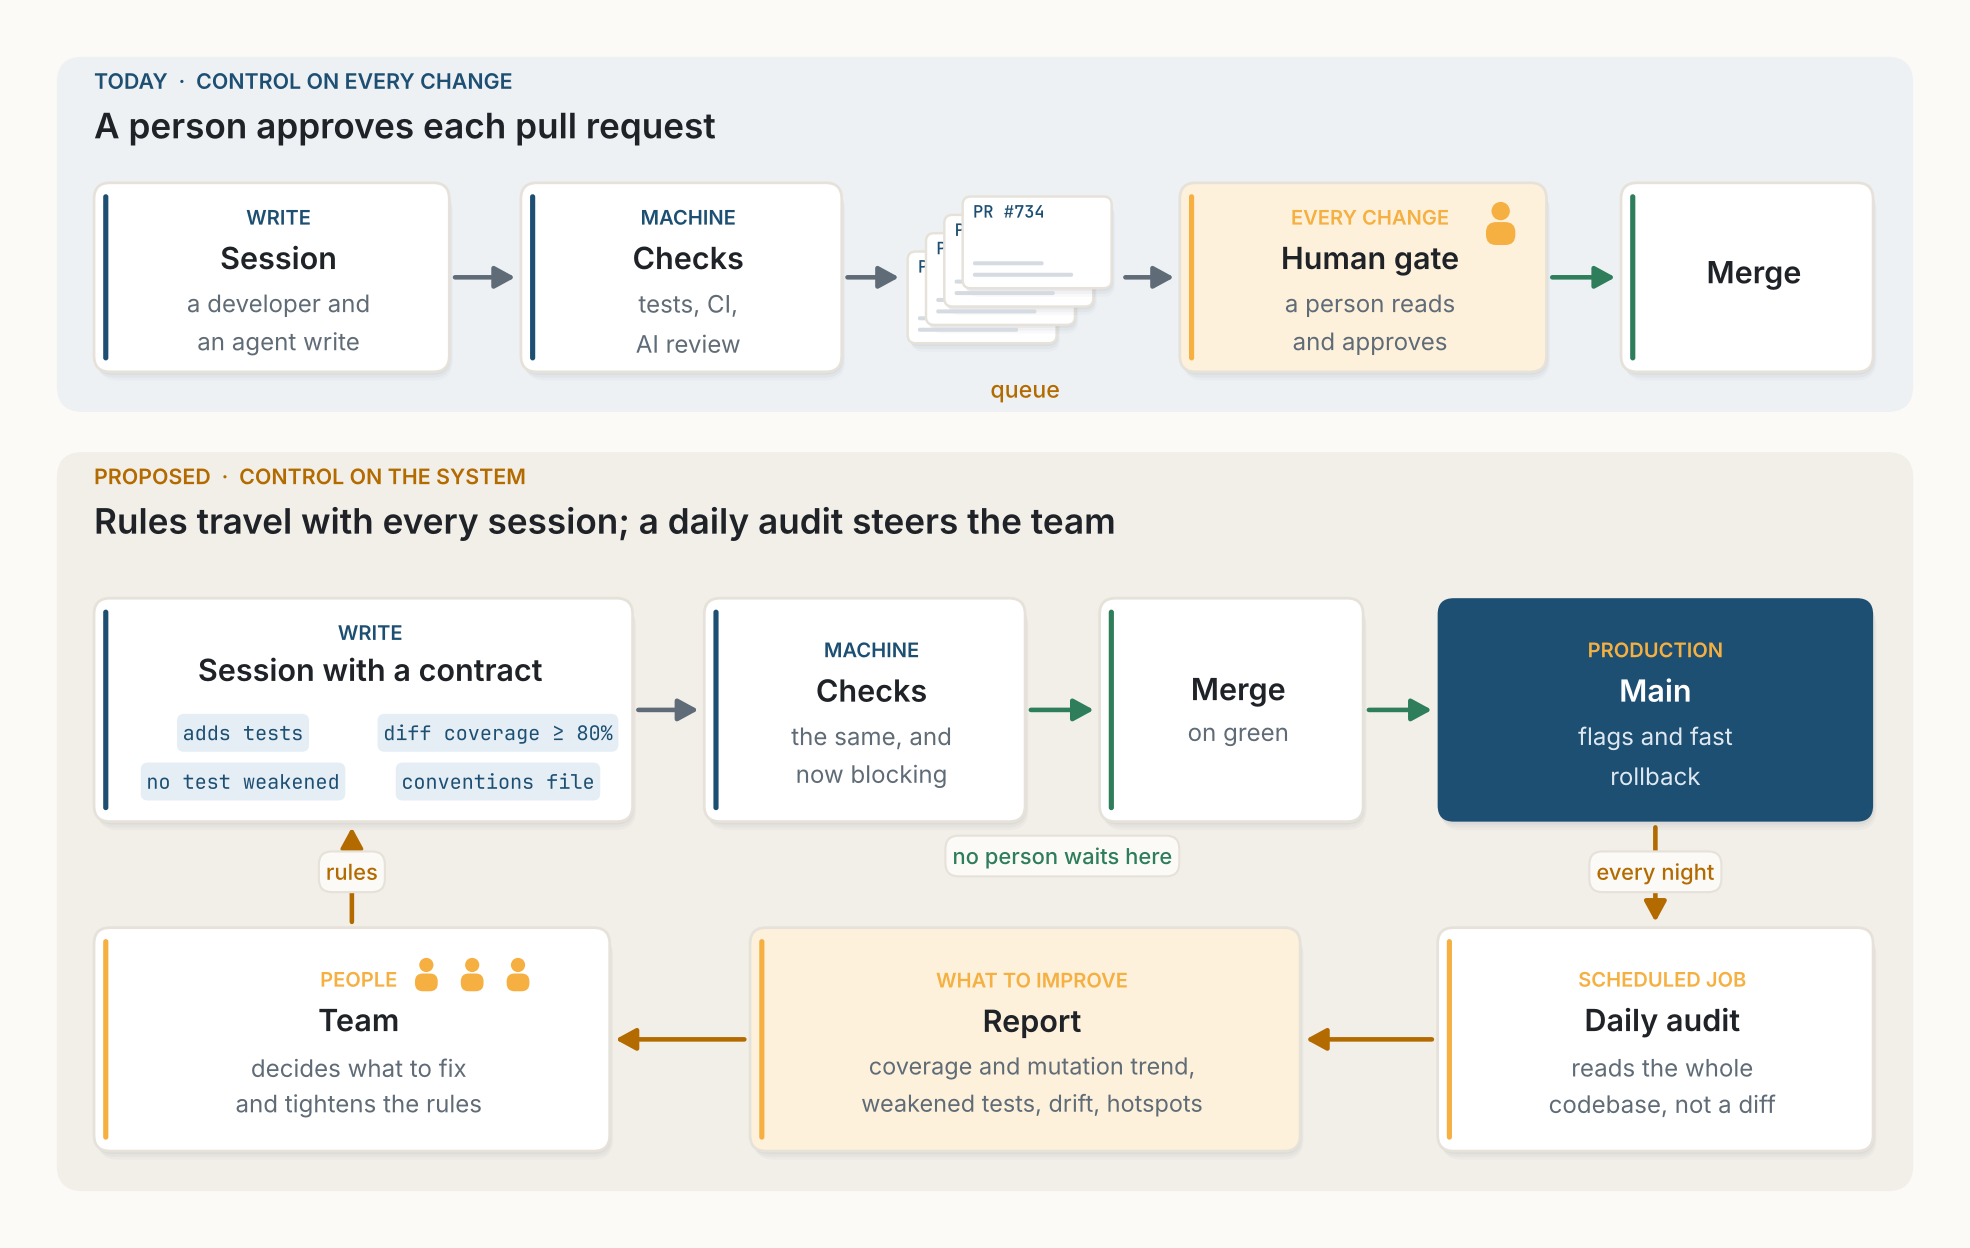
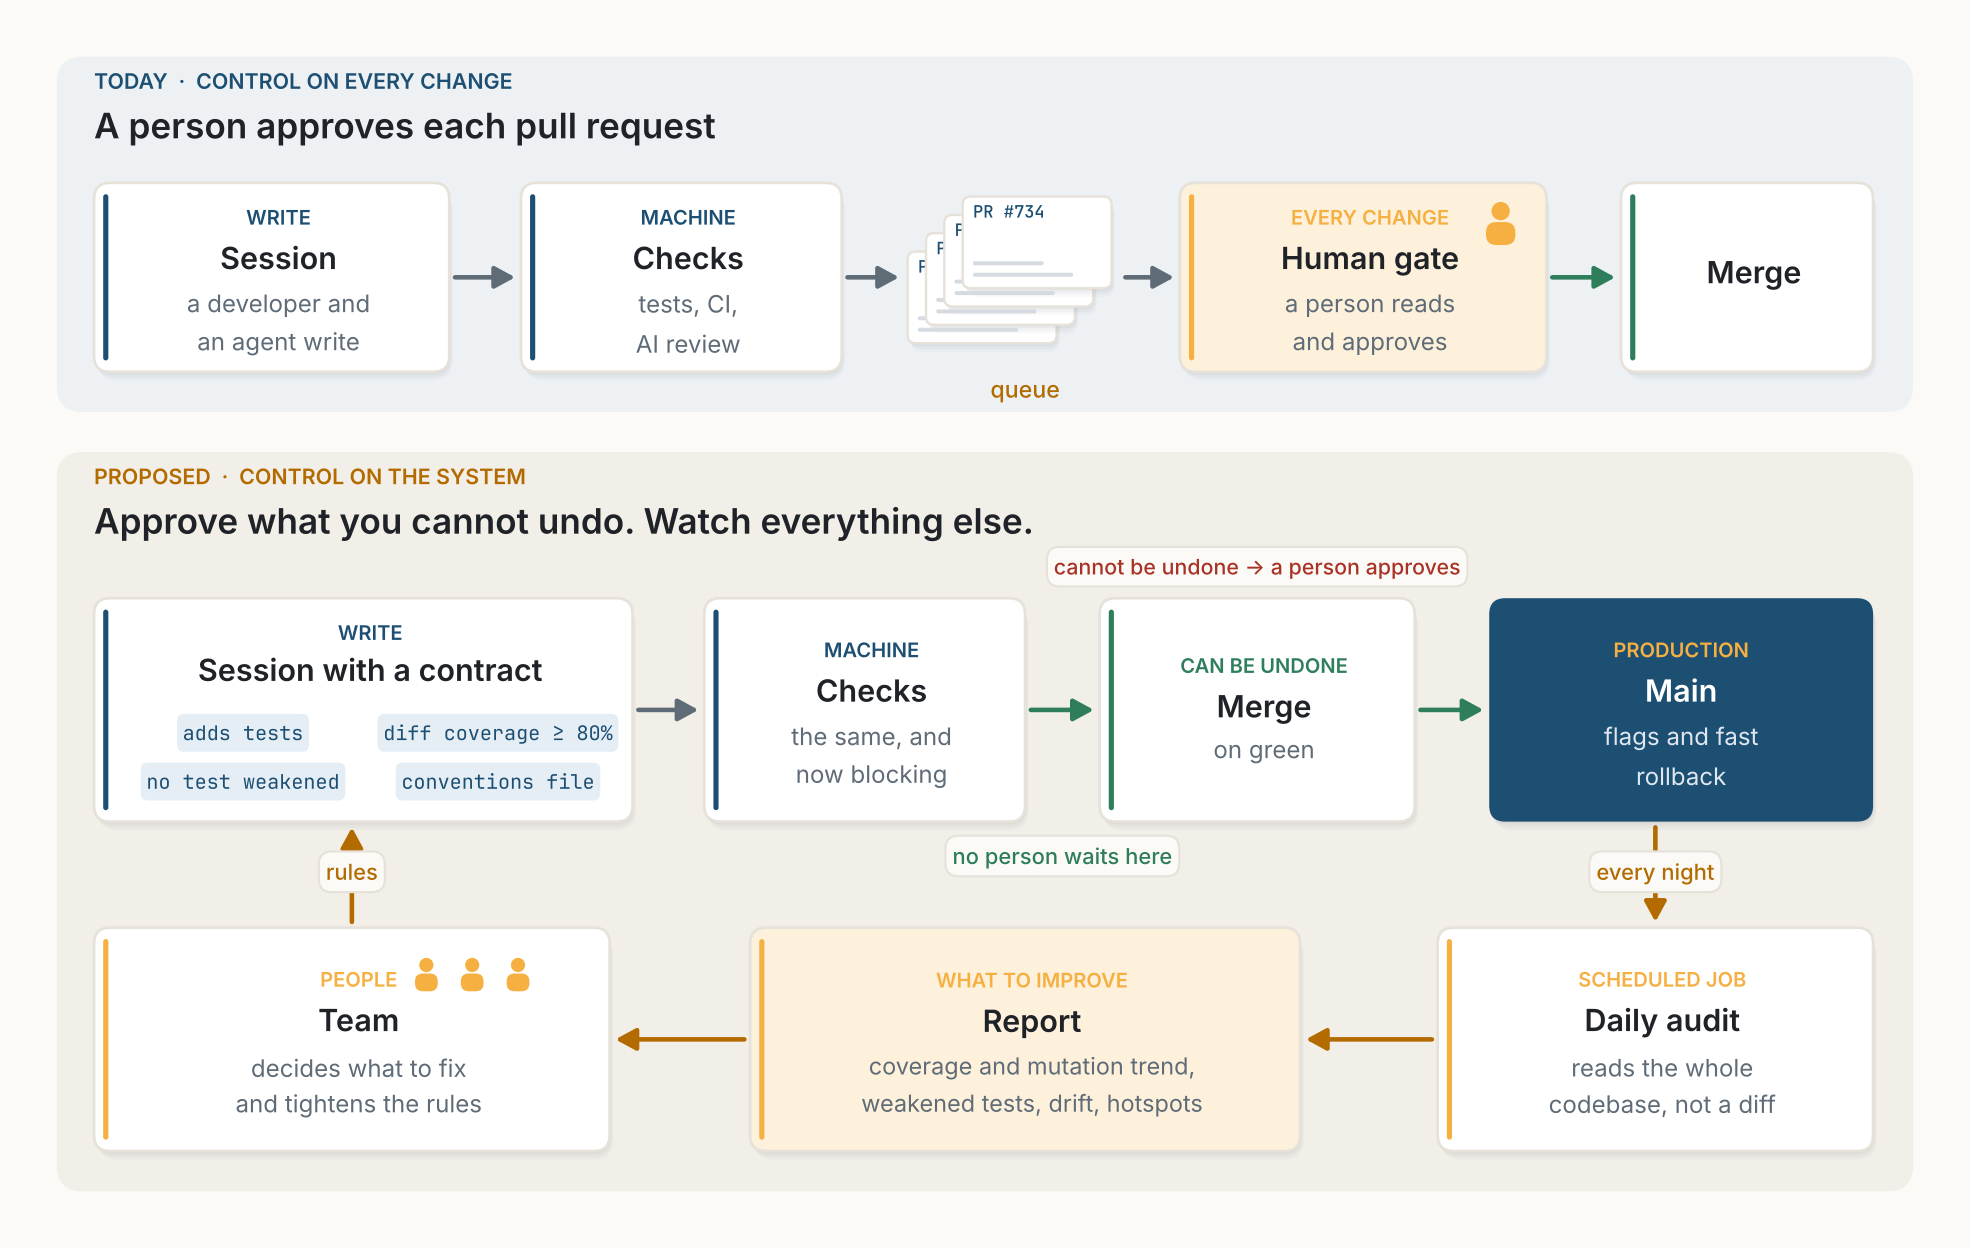
Stop Reviewing Pull Requests: one rule, less repetition
- Centre the paper on a rule the cost model derives: approve what you
  cannot undo, watch everything else. Prompt injection and compliance now
  fall under the same rule instead of being separate exceptions.
- Add the audit's reach: a share c of defects visible to the audit. New
  break-even c > d (1 + h_users / h_audit), Figure 5 redrawn as a map of
  speed against reach, with simulation checks matching the formula.
- State the gate's price as one number: about 10 engineer-hours per day
  of latent defects prevented.
- Figure 1 shows the one-way-door path; prediction H2 measures reach.
- Remove repeated phrases and trim to about 3,800 words including tables.

Claude-Session: https://claude.ai/code/session_01VmH6zrUCB8p6wREbjYJvmS

Changed region(s): [[0.031, 0.4062, 0.7741, 0.6562], [0.8051, 0.5, 0.898, 0.625]]

diff --git a/posts/2026-10-23-stop-reviewing-pull-requests/figs.py b/posts/2026-10-23-stop-reviewing-pull-requests/figs.py
@@ -183,7 +183,7 @@ def fig_gate_to_loop():
     ax.add_patch(FancyBboxPatch((0.3, 0.3), 32.4, 12.9, boxstyle="round,pad=0,rounding_size=0.45",
                                 fc=SAND_T, ec="none", zorder=0.5))
     heading(ax, 0.95, 12.55, "PROPOSED  ·  control on the system",
-            "Rules travel with every session; a daily audit steers the team", color=WARM)
+            "Approve what you cannot undo. Watch everything else.", color=WARM)
     y = 6.75
     card(ax, 0.95, y, 9.4, 3.9, None, None, accent=NAVY, fs=10)
     ax.text(5.77, y + 3.3, "WRITE", fontsize=6.6, weight="semibold", color=NAVY, ha="center", va="center", zorder=6)
@@ -194,12 +194,13 @@ def fig_gate_to_loop():
         chip(ax, 3.55 + (i % 2) * 4.45, y + 1.55 - (i // 2) * 0.85, r_, fs=6.6)
     card(ax, 11.6, y, 5.6, 3.9, "Checks", "the same, and\nnow blocking", accent=NAVY,
          eyebrow="machine", fs=10, subfs=7.9)
-    card(ax, 18.5, y, 4.6, 3.9, "Merge", "on green", accent=GREEN, fs=10, subfs=7.9)
-    card(ax, 24.4, y, 7.6, 3.9, "Main", "flags and fast\nrollback", fill=NAVY, eyebrow="production",
+    card(ax, 18.5, y, 5.5, 3.9, "Merge", "on green", accent=GREEN, eyebrow="can be undone", fs=10, subfs=7.9)
+    pill(ax, 21.25, y + 4.45, "cannot be undone → a person approves", color=RED, fs=7.0)
+    card(ax, 25.3, y, 6.7, 3.9, "Main", "flags and fast\nrollback", fill=NAVY, eyebrow="production",
          fs=10, subfs=7.9)
     arrow(ax, (10.45, y + 1.95), (11.5, y + 1.95), lw=1.5)
     arrow(ax, (17.3, y + 1.95), (18.4, y + 1.95), color=GREEN, lw=1.5)
-    arrow(ax, (23.2, y + 1.95), (24.3, y + 1.95), color=GREEN, lw=1.5)
+    arrow(ax, (24.1, y + 1.95), (25.2, y + 1.95), color=GREEN, lw=1.5)
     pill(ax, 17.85, y - 0.6, "no person waits here", color=GREEN, fs=7.2)
 
     # the loop: daily audit -> report -> team -> session rules
@@ -355,10 +356,12 @@ def sim_lead_times(lam_day, gate, rng, days=60, warm=10):
     return lt[arr > warm * P["day"]]
 
 
-def sim_defects(gate, audit, rng, runs=300, h_audit=None, d=None):
+def sim_defects(gate, audit, rng, runs=300, h_audit=None, d=None, c=1.0):
     """Latent defects in main, day by day: those live in main during the day, before that day's
-    detections. Returns (runs x days) counts and the ages at fix."""
-    h = P["h_users"] + ((P["h_audit"] if h_audit is None else h_audit) if audit else 0.0)
+    detections. A share c of defects is visible to the audit; the rest are found only by users.
+    Returns (runs x days) counts and the ages at fix."""
+    hu = P["h_users"]
+    ha = (P["h_audit"] if h_audit is None else h_audit) if audit else 0.0
     d = P["d"] if d is None else d
     out = np.zeros((runs, P["days"]))
     ages = []
@@ -368,14 +371,14 @@ def sim_defects(gate, audit, rng, runs=300, h_audit=None, d=None):
             k = rng.binomial(rng.poisson(P["lam"]), P["p_defect"])
             if gate:
                 k = rng.binomial(k, 1 - d)
-            live += [t] * k
+            live += [(t, hu + ha if rng.random() < c else hu) for _ in range(k)]
             out[r, t] = len(live)
             keep = []
-            for t0 in live:
+            for t0, h in live:
                 if rng.random() < h:
                     ages.append(t - t0 + 1)
                 else:
-                    keep.append(t0)
+                    keep.append((t0, h))
             live = keep
     return out, np.array(ages)
 
@@ -442,49 +445,47 @@ def fig_simulation():
         print(f"{lab:36s} latent {mean_latent:5.1f}  age at fix median {med_age:4.1f} d, mean {mean_age:4.1f} d")
 
 
-# ---------- figure 5: how good must the audit be? ----------
+# ---------- figure 5: how fast and how far must the watch see? ----------
 def fig_sensitivity():
-    """Latent defects without a gate but with an audit, relative to a gate without an audit.
-    By Little's law the ratio is h_users / ((1 - d) * (h_users + h_audit)), so the proposal
-    leaves fewer latent defects as soon as h_audit > h_users * d / (1 - d)."""
-    rng = np.random.default_rng(7)
-    hu = P["h_users"]
-    fig, ax = plt.subplots(figsize=(9.0, 5.0))
-    ha = np.linspace(0, 0.6, 300)
-    ax.fill_between([0, 0.6], 0.08, 1, color=GREEN_T, zorder=0, lw=0)
-    ax.plot([0, 0.6], [1, 1], color=INK, lw=1.2, zorder=2)
-    ax.text(0.612, 1, "today: gate, no audit", ha="left", va="center", fontsize=8, color=INK,
-            weight="semibold")
-    ax.text(0.598, 0.1, "the proposal leaves fewer latent defects than today", ha="right",
-            va="bottom", fontsize=8.4, color=GREEN, weight="semibold")
-    for dd, col in ((0.25, NAVY), (0.5, GREEN), (0.75, WARM)):
-        ax.plot(ha, hu / ((1 - dd) * (hu + ha)), color=col, lw=2.2, zorder=3)
-        be = hu * dd / (1 - dd)
-        ax.scatter([be], [1], s=46, color="white", edgecolor=col, lw=1.8, zorder=5)
-        ax.annotate(f"{be:.2f}", (be, 1), xytext=(0, -15), textcoords="offset points", ha="center",
-                    fontsize=7.6, color=col, weight="semibold")
-        ax.text(0.612, hu / ((1 - dd) * (hu + 0.6)), f"reviewer catches d = {dd:.2f}", color=col,
-                fontsize=8, weight="semibold", ha="left", va="center")
-    # simulated check for d = 0.5
-    base, _ = sim_defects(True, False, rng, runs=150)
-    base = base[:, 20:].mean()
-    sx = np.array([0.0, 0.05, 0.1, 0.2, 0.3, 0.5])
-    sy = [sim_defects(False, True, rng, runs=150, h_audit=h)[0][:, 20:].mean() / base for h in sx]
-    ax.scatter(sx, sy, marker="D", s=22, color=GREEN, zorder=6)
-    ax.text(0.33, 0.66, "◆ simulation, d = 0.5", color=GREEN, fontsize=7.8)
-    ax.plot([P["h_audit"]] * 2, [0.08, 5], color=MUTED, lw=0.9, ls=(0, (3, 3)))
-    ax.text(P["h_audit"] - 0.008, 3.2, "value used in Figure 4", color=MUTED, fontsize=7.4, rotation=90,
-            ha="right", va="center")
-    ax.set_yscale("log"); ax.set_ylim(0.08, 5)
-    ax.set_yticks([0.1, 0.25, 0.5, 1, 2, 4]); ax.set_yticklabels(["0.1×", "0.25×", "0.5×", "1×", "2×", "4×"])
-    ax.set_xlim(0, 0.8); ax.set_xticks(np.arange(0, 0.61, 0.1))
-    ax.spines["bottom"].set_bounds(0, 0.6)
-    ax.set_xlabel("Daily chance that the audit finds a given latent defect, h_audit\n"
-                  f"(users and monitoring find it with chance {hu:.2f} per day)")
-    ax.set_ylabel("Latent defects, no gate with audit,\nrelative to gate without audit")
-    tidy(ax, grid_axis="y")
-    ax.grid(False)
-    ax.hlines([0.1, 0.25, 0.5, 2, 4], 0, 0.6, color=RULE, lw=0.8, zorder=0.5)
+    """Where no gate plus an audit leaves fewer latent defects than a gate without an audit.
+    A share c of defects is visible to the audit, found with daily chance h_audit; users find any
+    defect with daily chance h_users. By Little's law the proposal wins when
+    c > d * (1 + h_users / h_audit)."""
+    rng = np.random.default_rng(11)
+    hu, d0 = P["h_users"], P["d"]
+    fig, ax = plt.subplots(figsize=(9.0, 5.6))
+    ha = np.linspace(0.005, 1.0, 400)
+    edge = d0 * (1 + hu / ha)
+    ax.fill_between(ha, np.minimum(edge, 1), 1, color=GREEN_T, zorder=0, lw=0)
+    ax.fill_between(ha, 0, np.minimum(edge, 1), color=AMBER_T, zorder=0, lw=0)
+    ax.plot(ha[edge <= 1], edge[edge <= 1], color=INK, lw=2.0, zorder=3)
+    ax.axhline(d0, color=INK, lw=0.9, ls=(0, (1, 3)), zorder=2)
+    ax.text(1.01, d0, "c = d", color=INK, fontsize=8, weight="semibold", va="center")
+    ax.text(0.97, d0 - 0.035, "limit: even an instant audit must see more\ndefects than a reviewer would have caught",
+            color=MUTED, fontsize=7.6, ha="right", va="top", linespacing=1.3)
+    ax.text(0.97, 0.66, "break-even, c = d (1 + h_users / h_audit)", color=INK, fontsize=7.8,
+            ha="right", va="bottom", weight="semibold")
+    ax.text(0.75, 0.84, "The proposal leaves fewer\nlatent defects than today", color=GREEN, fontsize=10.5,
+            weight="semibold", ha="center", va="center", linespacing=1.3)
+    ax.text(0.62, 0.22, "Today's gate leaves fewer", color=WARM, fontsize=10.5, weight="semibold",
+            ha="center", va="center")
+    # simulation checks for d = 0.5, ratio to today written next to each point
+    base = sim_defects(True, False, rng, runs=150)[0][:, 20:].mean()
+    pts = [(0.5, 1.0), (0.5, 0.8), (0.5, 0.6), (0.5, 0.45), (0.2, 0.9), (0.2, 0.6), (0.1, 1.0)]
+    for x, c in pts:
+        ratio = sim_defects(False, True, rng, runs=150, h_audit=x, c=c)[0][:, 20:].mean() / base
+        win = ratio < 1
+        ax.scatter([x], [c], marker="D", s=30, color=GREEN if win else RED, edgecolor="white", lw=0.8, zorder=6)
+        ax.annotate(f"{ratio:.2f}×", (x, c), xytext=(7, 7 if abs(ratio - 1) < 0.05 else 0), textcoords="offset points", fontsize=7.4,
+                    color=GREEN if win else RED, va="center", weight="semibold", zorder=6)
+        print(f"sim h_audit={x:.2f} c={c:.2f}: ratio {ratio:.2f}, analytic "
+              f"{(c / (hu + x) + (1 - c) / hu) / ((1 - d0) / hu):.2f}")
+    ax.text(0.03, 0.04, "◆ simulation, d = 0.5, latent defects relative to today", color=MUTED, fontsize=7.4)
+    ax.set_xlim(0, 1.0); ax.set_ylim(0, 1.02)
+    ax.set_xlabel("How fast: daily chance the audit finds a defect it can see, h_audit\n"
+                  f"(users and monitoring find any defect with chance {hu:.2f} per day)")
+    ax.set_ylabel("How far: share of defects the audit can see, c")
+    tidy(ax, grid_axis="both")
     ax.spines["left"].set_color(MUTED)
     fig.savefig(OUT + "fig05.png"); plt.close(fig)
 
